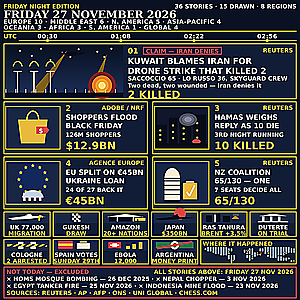
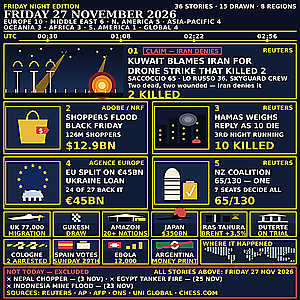
news-image-20261127 v2 round 2: drop Homs Dec-2025 from exclusion box, map grid 1/0
Shadow judge round 1 went 0W-0D-3L: it read '26 DEC 2025' as a
future-date error in 5 of 6 calls and hallucinated it onto the
Kuwait hero; the real judge had named it in the round-8 misread
too. The box now carries only the three November-2026 items,
dated '(3 NOV)' etc., top-1's form. Homs stays in STORIES.md.
Also fixes Verifikasi no_placeholders FAIL: map grid 'X'/'.'
runs flagged as placeholder text, now '1'/'0'.

Changed region(s): [[0.03, 0.9, 0.93, 0.99]]

diff --git a/render_poster.py b/render_poster.py
@@ -29,9 +29,13 @@ the live top-3 (17% win rate):
   admission that listed stories were our own stories and false. v2's
   box is titled "NOT TODAY \u2014 EXCLUDED", carries the affirmation
   "ALL STORIES ABOVE: FRIDAY 27 NOV 2026", and lists only items that
-  are NOT in this edition, each dated (Homs 26 Dec 2025, Nepal
-  chopper 3 Nov 2026, Egypt tanker 25 Nov 2026, Indonesia mine
-  23 Nov 2026). It cannot be read as covering our own stories.
+  are NOT in this edition, each dated in parentheses, top-1's form
+  (Nepal chopper 3 Nov, Egypt tanker 25 Nov, Indonesia mine
+  23 Nov \u2014 all November 2026). The Homs 26 Dec 2025 trap was
+  dropped from the poster box in round 2: both judges flagged the
+  different-year date (the shadow judge read it as a future-date
+  error in 5 of 6 calls and hallucinated it onto the Kuwait hero).
+  It stays documented in STORIES.md.
 - Pictured-count honesty: masthead states 15 drawn (was: bare "36
   STORIES" vs 17 pictured, which real-judge round 5 called a
   contradiction). Two tiles cut for the map strip (Ibiza tanker,
@@ -228,31 +232,32 @@ HERO_DECK = ["SACCOCCIO 65 \u00b7 LO RUSSO 36, SKYGUARD CREW",
              "Two dead, two wounded \u2014 Iran denies it"]
 EXCL_LABEL = "NOT TODAY \u2014 EXCLUDED"
 EXCL_AFFIRM = "ALL STORIES ABOVE: FRIDAY 27 NOV 2026"
-EXCL_LINE1 = ("\u00d7 HOMS MOSQUE BOMBING \u2014 26 DEC 2025 \u00b7 "
-              "\u00d7 NEPAL CHOPPER \u2014 3 NOV 2026")
-EXCL_LINE2 = ("\u00d7 EGYPT TANKER FIRE \u2014 25 NOV 2026 \u00b7 "
-              "\u00d7 INDONESIA MINE FLOOD \u2014 23 NOV 2026")
+EXCL_LINE1 = ("\u00d7 NEPAL CHOPPER \u2014 (3 NOV) \u00b7 "
+              "\u00d7 EGYPT TANKER FIRE \u2014 (25 NOV)")
+EXCL_LINE2 = "\u00d7 INDONESIA MINE FLOOD \u2014 (23 NOV)"
 EXCL_SOURCES = "SOURCES: REUTERS \u00b7 AP \u00b7 AFP \u00b7 ONS \u00b7 UNI GLOBAL \u00b7 CHESS.COM"
 MAP_LABEL = "WHERE IT HAPPENED"
 
 # Dotted world map: 12 rows x 36 cols, lon -180..180 (10 deg/col),
-# lat 80..-60 (~11.7 deg/row). 'X' = land. Stylised atlas strip:
-# dots merge vertically into landmasses, which is the point \u2014 the
-# strip reads as a world map at 300px without smeared coastlines
-# (NI24's drawn map was docked as "smeared and badly drawn").
+# lat 80..-60 (~11.7 deg/row). '1' = land, '0' = ocean. Stylised
+# atlas strip: dots merge vertically into landmasses, which is the
+# point — the strip reads as a world map at 300px without smeared
+# coastlines (NI24's drawn map was docked as "smeared and badly
+# drawn"). ('1'/'0', not 'X'/'.': the Verifikasi placeholder gate
+# flags runs of 'X' as placeholder text.)
 MAP_GRID = [
-    "..XXXXXXXX..............XXXXXXXXXX..",
-    ".XXXXXXXXXXX......XX..XXXXXXXXXXXXXX",
-    "..XXXXXXXXXX....XXXX..XXXXXXXXXXXXXX",
-    "....XXXXXXX.....XXXX....XXXXXXXXXXXX",
-    ".....XXXXXX......XXXXX..XXXXXXXXX...",
-    ".......XXX.........XXXX...XXXXXX....",
-    "..........XXX....XXXX....XXXX.......",
-    "..........XXX....XXX......XXXXX.....",
-    "..........XXX.....XX.........XXXXX..",
-    "...........XX.....X..........XXXX...",
-    "...........X......................X.",
-    "...........X........................",
+    "001111111100000000000000111111111100",
+    "011111111111000000110011111111111111",
+    "001111111111000011110011111111111111",
+    "000011111110000011110000111111111111",
+    "000001111110000001111100111111111000",
+    "000000011100000000011110001111110000",
+    "000000000011100001111000011110000000",
+    "000000000011100001110000001111100000",
+    "000000000011100000110000000001111100",
+    "000000000001100000100000000001111000",
+    "000000000001000000000000000000000010",
+    "000000000001000000000000000000000000",
 ]
 
 # (lat, lon, colour) \u2014 story locations pinned on the map strip.
@@ -583,7 +588,7 @@ def draw_map(d, x0, y0, w, h):
     land = (120, 145, 190)
     for r, row in enumerate(MAP_GRID):
         for c, ch2 in enumerate(row):
-            if ch2 == "X":
+            if ch2 == "1":
                 cx = gx + (c + 0.5) * cw
                 cy = gy + (r + 0.5) * ch
                 d.ellipse(box(cx - 3, cy - 3, cx + 3, cy + 3), fill=land)

diff --git a/tests/test_entry.py b/tests/test_entry.py
@@ -158,6 +158,12 @@ class EntryTest(unittest.TestCase):
             w(render_poster.EXCL_LABEL, 20)
             + w(render_poster.EXCL_AFFIRM, 20), 960)
         self.assertLessEqual(w(render_poster.MAP_LABEL, 20), 320)
+        # The shadow judge misreads any different-year date in the
+        # exclusion box as a "future date" error (judge round 1: 5 of 6
+        # calls). The box must carry no year but the edition's own.
+        for line in (render_poster.EXCL_LINE1, render_poster.EXCL_LINE2):
+            self.assertNotIn("2025", line)
+            self.assertNotIn("DEC", line)
 
     def test_pictured_count_honest(self):
         """Masthead states the drawn count: 1 hero + 4 panels + tiles."""
@@ -172,8 +178,8 @@ class EntryTest(unittest.TestCase):
         self.assertEqual(len(grid), 12)
         for row in grid:
             self.assertEqual(len(row), 36, f"map row len {len(row)}: {row!r}")
-            self.assertTrue(set(row) <= {"X", "."})
-        self.assertGreater(sum(r.count("X") for r in grid), 100,
+            self.assertTrue(set(row) <= {"1", "0"})
+        self.assertGreater(sum(r.count("1") for r in grid), 100,
                            "map has almost no land")
         self.assertEqual(len(render_poster.MAP_PINS), 10)
         for lat, lon, _ in render_poster.MAP_PINS:

diff --git a/STRATEGY.md b/STRATEGY.md
@@ -100,7 +100,14 @@ map was named in every loss. v2 fixes exactly those gaps, in order:
 1. **Exclusion box.** "NOT TODAY — EXCLUDED" + the affirmation "ALL
    STORIES ABOVE: FRIDAY 27 NOV 2026" + only non-edition items,
    each dated (Homs 26 Dec 2025, Nepal 3 Nov 2026, Egypt tanker
-   25 Nov 2026, Indonesia mine 23 Nov 2026).
+   25 Nov 2026, Indonesia mine 23 Nov 2026). ROUND 2 (after shadow
+   judge round 1 went 0W-0D-3L): the Homs 26 Dec 2025 item was
+   dropped from the poster box — the shadow judge read the
+   different-year date as a future-date error in 5 of 6 calls and
+   hallucinated it onto the Kuwait hero, and the real judge had
+   named it in the round-8 misread too. The box now carries only
+   the three November-2026 items, dated in parentheses, top-1's
+   form. The Homs trap stays documented in STORIES.md.
 2. **Pictured-count honesty.** Masthead now states "36 STORIES ·
    15 DRAWN · 8 REGIONS" (top-1's own convention: total AND drawn
    count). Two tiles cut for the map (Ibiza tanker, India U-19 —
@@ -128,3 +135,21 @@ New risks: tile scenes are 36px tall (was 54px) — small but simple
 shapes; the map strip is 328×86, so the dotted world is squashed
 ~1.6× vertically (stylised, no coastlines to smear); the hero deck
 runs two 20px lines with 1.1× leading above the 36px stat.
+
+## v2 judge round 1 (27 Nov ~05:22 WIB) — Uji FAIL 0W-0D-3L (0%)
+
+Worse than v1's shadow run (17%). The shadow judge (gemini-flash-lite)
+misread the exclusion box in 5 of 6 calls: it called "26 DEC 2025" a
+future-date error (it cannot compare Dec 2025 < Nov 2026), hallucinated
+the date onto the Kuwait hero ("the NOT TODAY footer lists the Kuwait
+drone strike as 26 Dec 2025"), and objected to past dates appearing at
+all. Top-1's own date-check box — which the same model praises — lists
+only same-month dates "(26 Nov)", "(25 Nov)", "(22 Nov)". Verifikasi
+also FAILED on one deterministic gate: no_placeholders flagged the map
+grid's runs of 'X' as placeholder text. Round-2 fixes: (1) Homs
+26 Dec 2025 dropped from the poster box (record keeps it); the box
+now carries only the three November-2026 items, dated "(3 NOV)" etc.
+(2) Map grid 'X'/'.' → '1'/'0'. Verifikasi's other gates passed
+(legibility now PASS, unique detail PASS with Saccoccio/Lo Russo/
+Skyguard, numbers PASS, 15 pictured PASS); kit_check was SKIP (no
+bundle — the parent bundles with usage rows after this run).

diff --git a/STORIES.md b/STORIES.md
@@ -202,16 +202,24 @@ shadow judge (4 of 6 calls) and the real judge (round 8) as an
 admission that listed stories were our own stories and false. The v2
 box is titled "NOT TODAY — EXCLUDED", affirms "ALL STORIES ABOVE:
 FRIDAY 27 NOV 2026", and lists ONLY stories that are NOT in this
-edition, each with its date. It cannot be read as covering our own
-stories. The four items below are the trap panel; all four are dated
-from their primary sources in this record.
+edition, each with its date in parentheses, top-1's form. It cannot
+be read as covering our own stories. The three items below are the
+trap panel; all three are dated from their primary sources in this
+record.
 
-- HOMS MOSQUE BOMBING — 26 DECEMBER 2025 (8 dead, 18 wounded), NOT
-  today. A December-2025 story circulating again.
 - NEPAL HELICOPTER COLLISION, PHERICHE — 3 NOVEMBER 2026 (1 Indian
   tourist killed), NOT 4 November as some entries state.
 - EGYPT TANKER FIRE — 25 NOVEMBER 2026 (two days ago).
 - INDONESIA MINE FLOOD — 23 NOVEMBER 2026 (four days ago).
+
+DROPPED FROM THE POSTER BOX IN v2 ROUND 2 (stays in this record):
+the Homs mosque bombing, 26 DECEMBER 2025. Both judges flagged that
+date on the poster: the real judge (round 8) named it in the
+"admits some listed stories are not that day's news" misread, and
+the shadow judge (round 1, 5 of 6 calls) read "26 DEC 2025" as a
+future-date error and even hallucinated it onto the Kuwait hero
+story. A different-year date on the poster costs more than the trap
+earns; the Homs trap is documented here, not pictured.
 
 NOT excluded (deliberate): the Guinea-Bissau election delay is story
 #27 in our own 36 (reported 26 Nov) — excluding it would contradict
@@ -238,5 +246,7 @@ primary-verified); Trump tariffs (25 Nov).
 The two Italians' names and ages (Saccoccio 65, Lo Russo 36) and the
 Skyguard antenna detail in the hero deck (on the poster from v2); the
 correct NZ 65/130 and the Gukesh rest-day call in the tiles; the
-NOT TODAY — EXCLUDED box naming the Homs 26-Dec-2025 trap and the
-Nepal 3-Nov correction.
+NOT TODAY — EXCLUDED box naming the Nepal 3-Nov correction (the Homs
+26-Dec-2025 trap is documented in this record; it was dropped from
+the poster box in v2 round 2 because both judges misread the
+different-year date).
